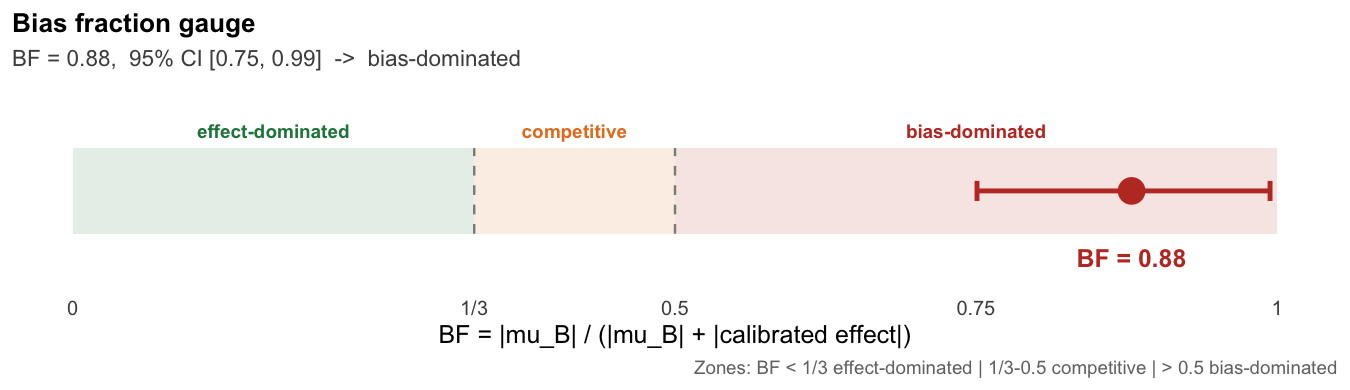
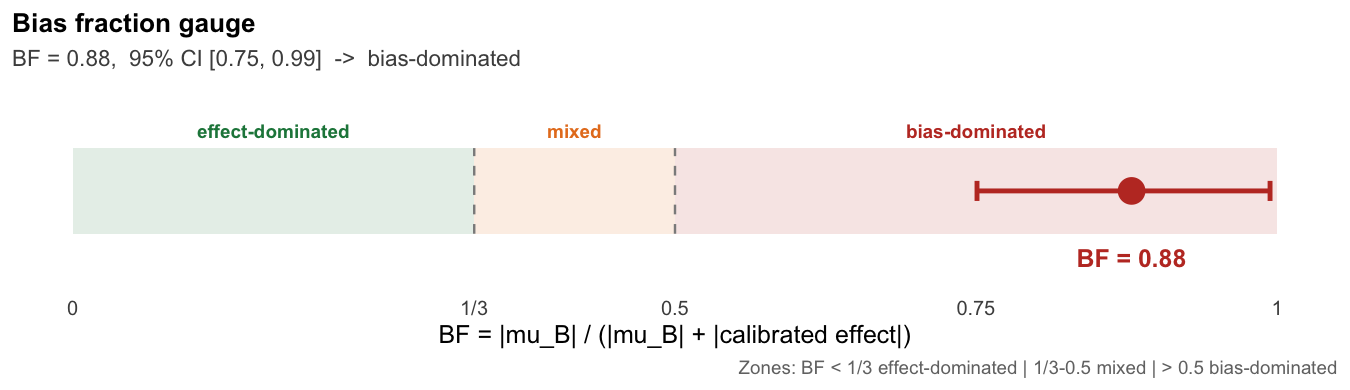
Rename middle zone to 'mixed' (was 'competitive')
- ber_classify() and bf_classify() now return "mixed" for the middle
  zone; ber_pal() uses the key "mixed"
- docs, vignette, README, DESCRIPTION, and plot captions updated
- tests updated to the new string (163 pass); R CMD check OK
- aligns the package with the v34 manuscript terminology

Changed region(s): [[0.4978, 0.9231, 0.84, 0.9846], [0.3733, 0.3077, 0.4667, 0.3692]]

diff --git a/README.md b/README.md
@@ -37,7 +37,7 @@ as an unbounded ratio: $\mathrm{BER} = \mathrm{BF} / (1 - \mathrm{BF})$.
     the calibrated signal (*bias-dominated*). The “effect” is more
     likely an artifact than a fact.
 -   **1/3 ≤ BF ≤ 0.5** (0.5 ≤ BER ≤ 1) — bias and signal are comparable
-    (*competitive*). Interpret with caution.
+    (*mixed*). Interpret with caution.
 -   **BF &lt; 1/3** (BER &lt; 0.5) — the calibrated signal clearly
     exceeds the bias (*effect-dominated*). The association survives the
     bias audit.
@@ -126,11 +126,11 @@ plot_loo(fit$loo)
 
 ## What the metrics mean, in plain terms
 
-| Question                                                    | Metric  | Scale | Read as                                                                 |
-|-------------------------------------------------------------|---------|-------|-------------------------------------------------------------------------|
-| Of the signal that survives calibration, how much is bias?  | **BF**  | 0-1   | bias-dominated &gt; 0.5; competitive 1/3-0.5; effect-dominated &lt; 1/3 |
-| How many times larger is the bias than the residual effect? | **BER** | 0-∞   | BF/(1-BF); same three zones at 1 and 0.5                                |
-| Of the *uncalibrated* association, how much is bias?        | OBF     | 0-∞   | $\|\mu_B\| / \|\log RR_{\text{obs}}\|$; descriptive companion           |
+| Question                                                    | Metric  | Scale | Read as                                                           |
+|-------------------------------------------------------------|---------|-------|-------------------------------------------------------------------|
+| Of the signal that survives calibration, how much is bias?  | **BF**  | 0-1   | bias-dominated &gt; 0.5; mixed 1/3-0.5; effect-dominated &lt; 1/3 |
+| How many times larger is the bias than the residual effect? | **BER** | 0-∞   | BF/(1-BF); same three zones at 1 and 0.5                          |
+| Of the *uncalibrated* association, how much is bias?        | OBF     | 0-∞   | $\|\mu_B\| / \|\log RR_{\text{obs}}\|$; descriptive companion     |
 
 Report BF (with its CI and zone) alongside the calibrated p-value and
 the calibrated RR. The calibrated p-value answers *is there evidence of

diff --git a/NEWS.md b/NEWS.md
@@ -11,6 +11,9 @@
   the same distribution and cannot diverge.
 * New `bf_classify()`: three-zone classification on the BF scale
   (thresholds 0.5 and 1/3; identical partition to `ber_classify()`).
+* Zone terminology: the middle zone is now named "mixed" (previously
+  "competitive"); `ber_classify()` and `bf_classify()` return "mixed",
+  and `ber_pal()` uses the key "mixed".
 * New `bf_fieller()`: Fieller confidence set for the signed ratio
   mu_B / psi_tilde, with honest handling of near-zero denominators
   (interior / exterior / empty / whole regions).
